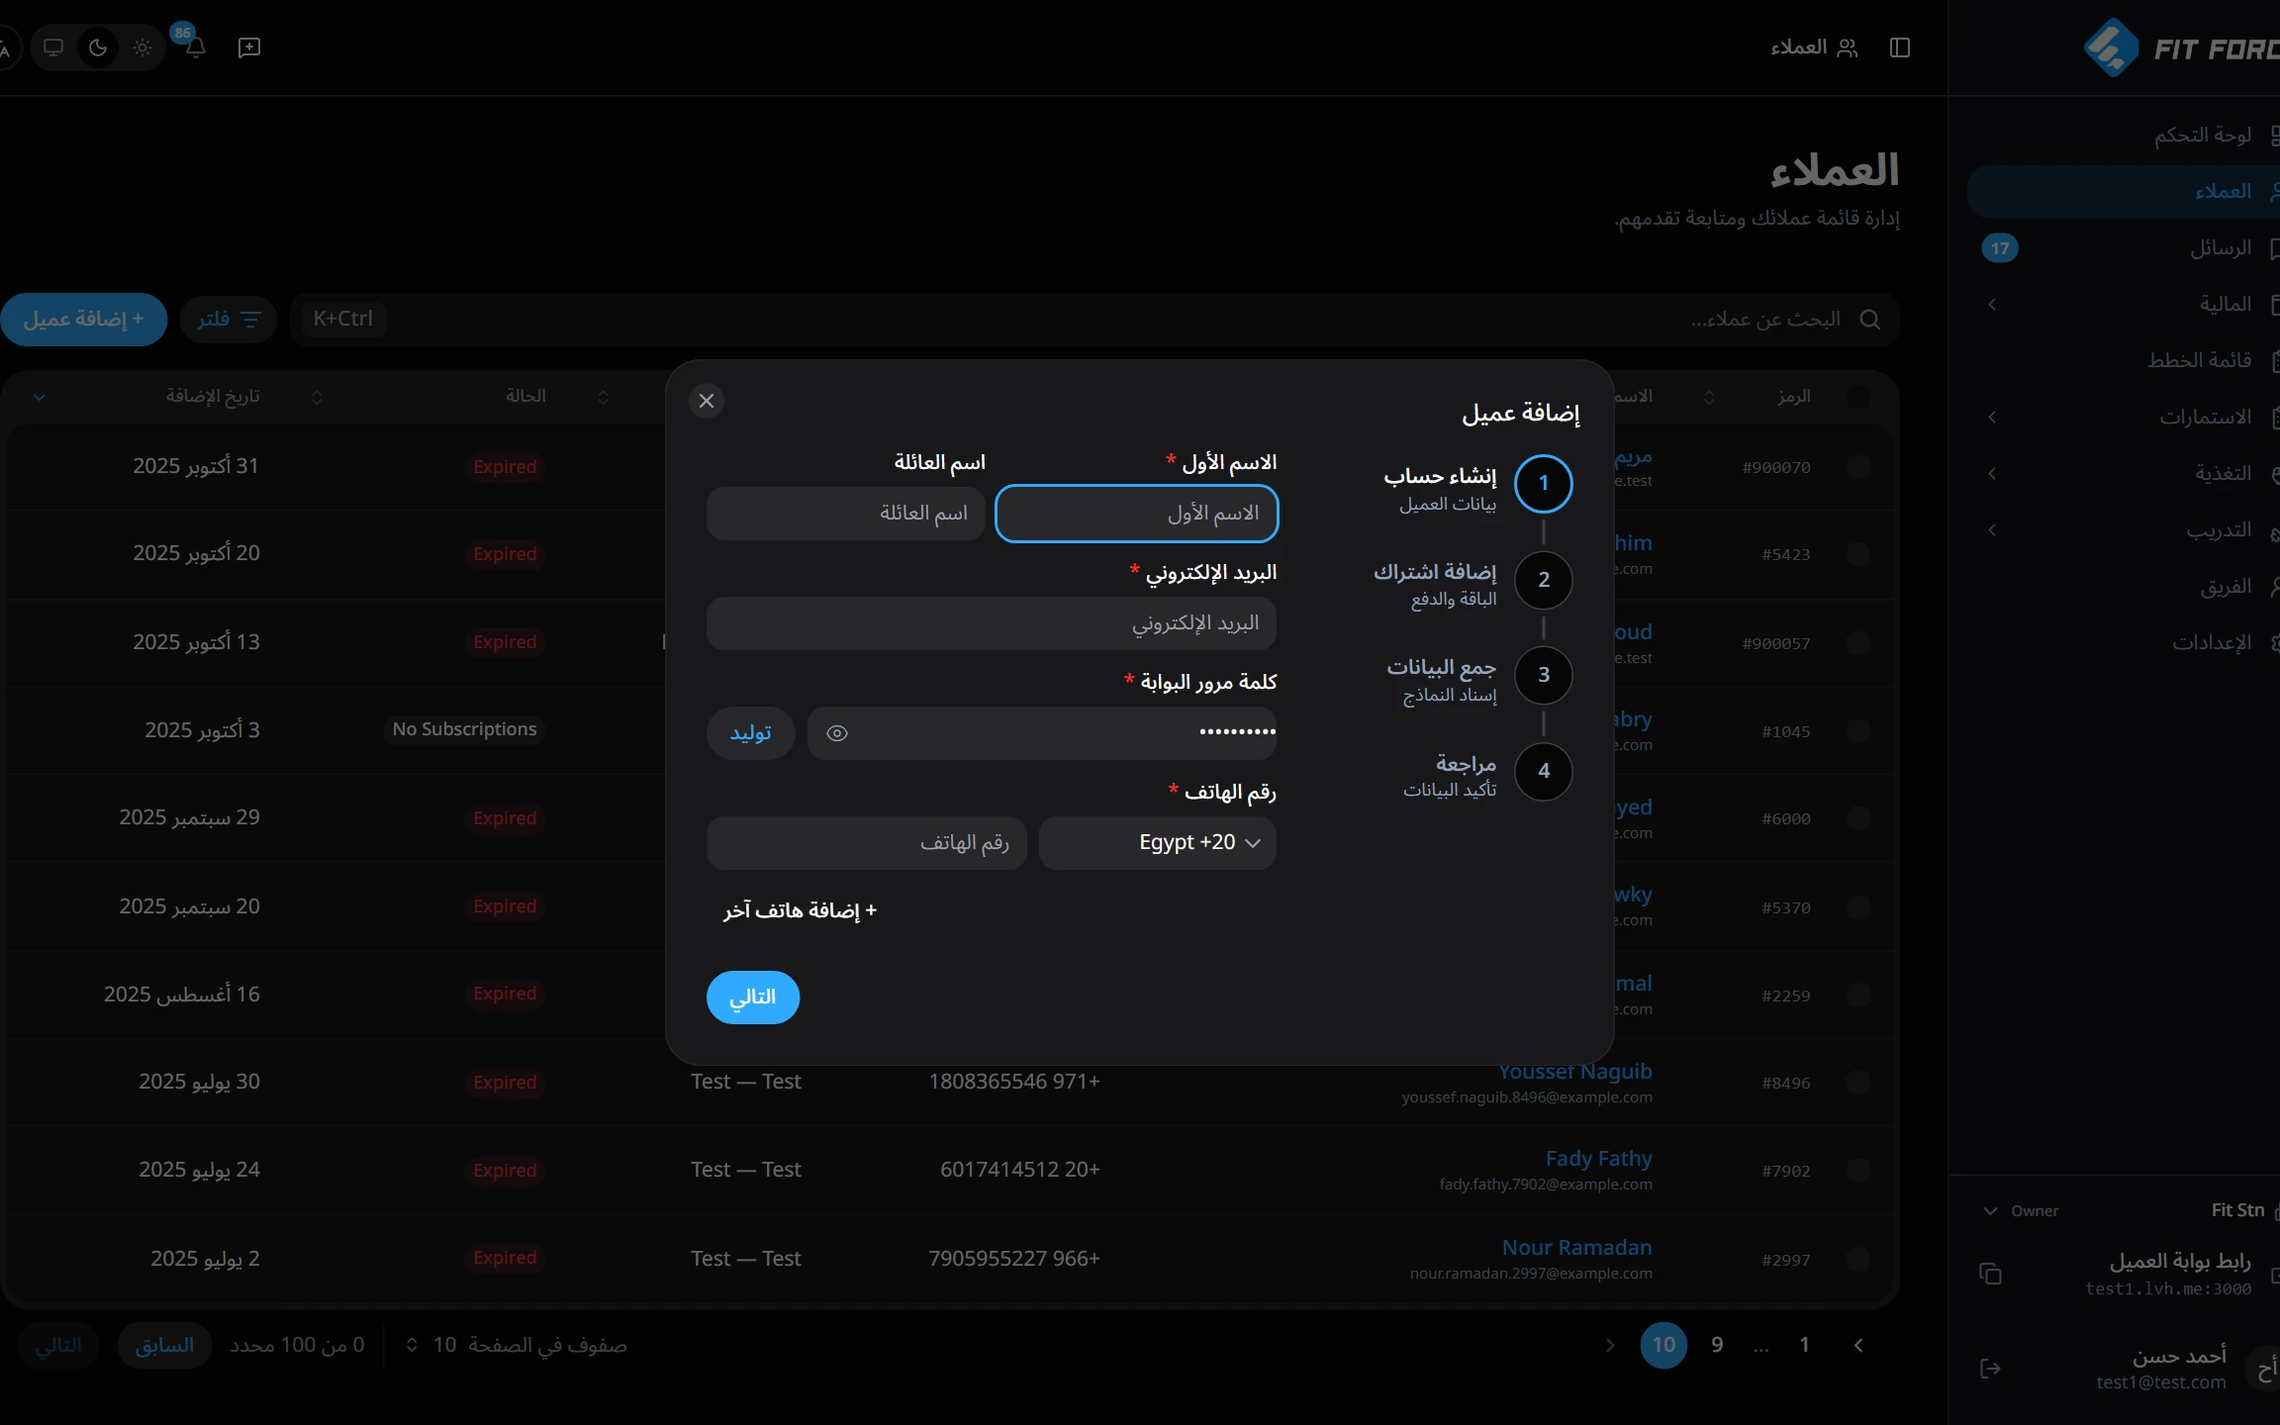
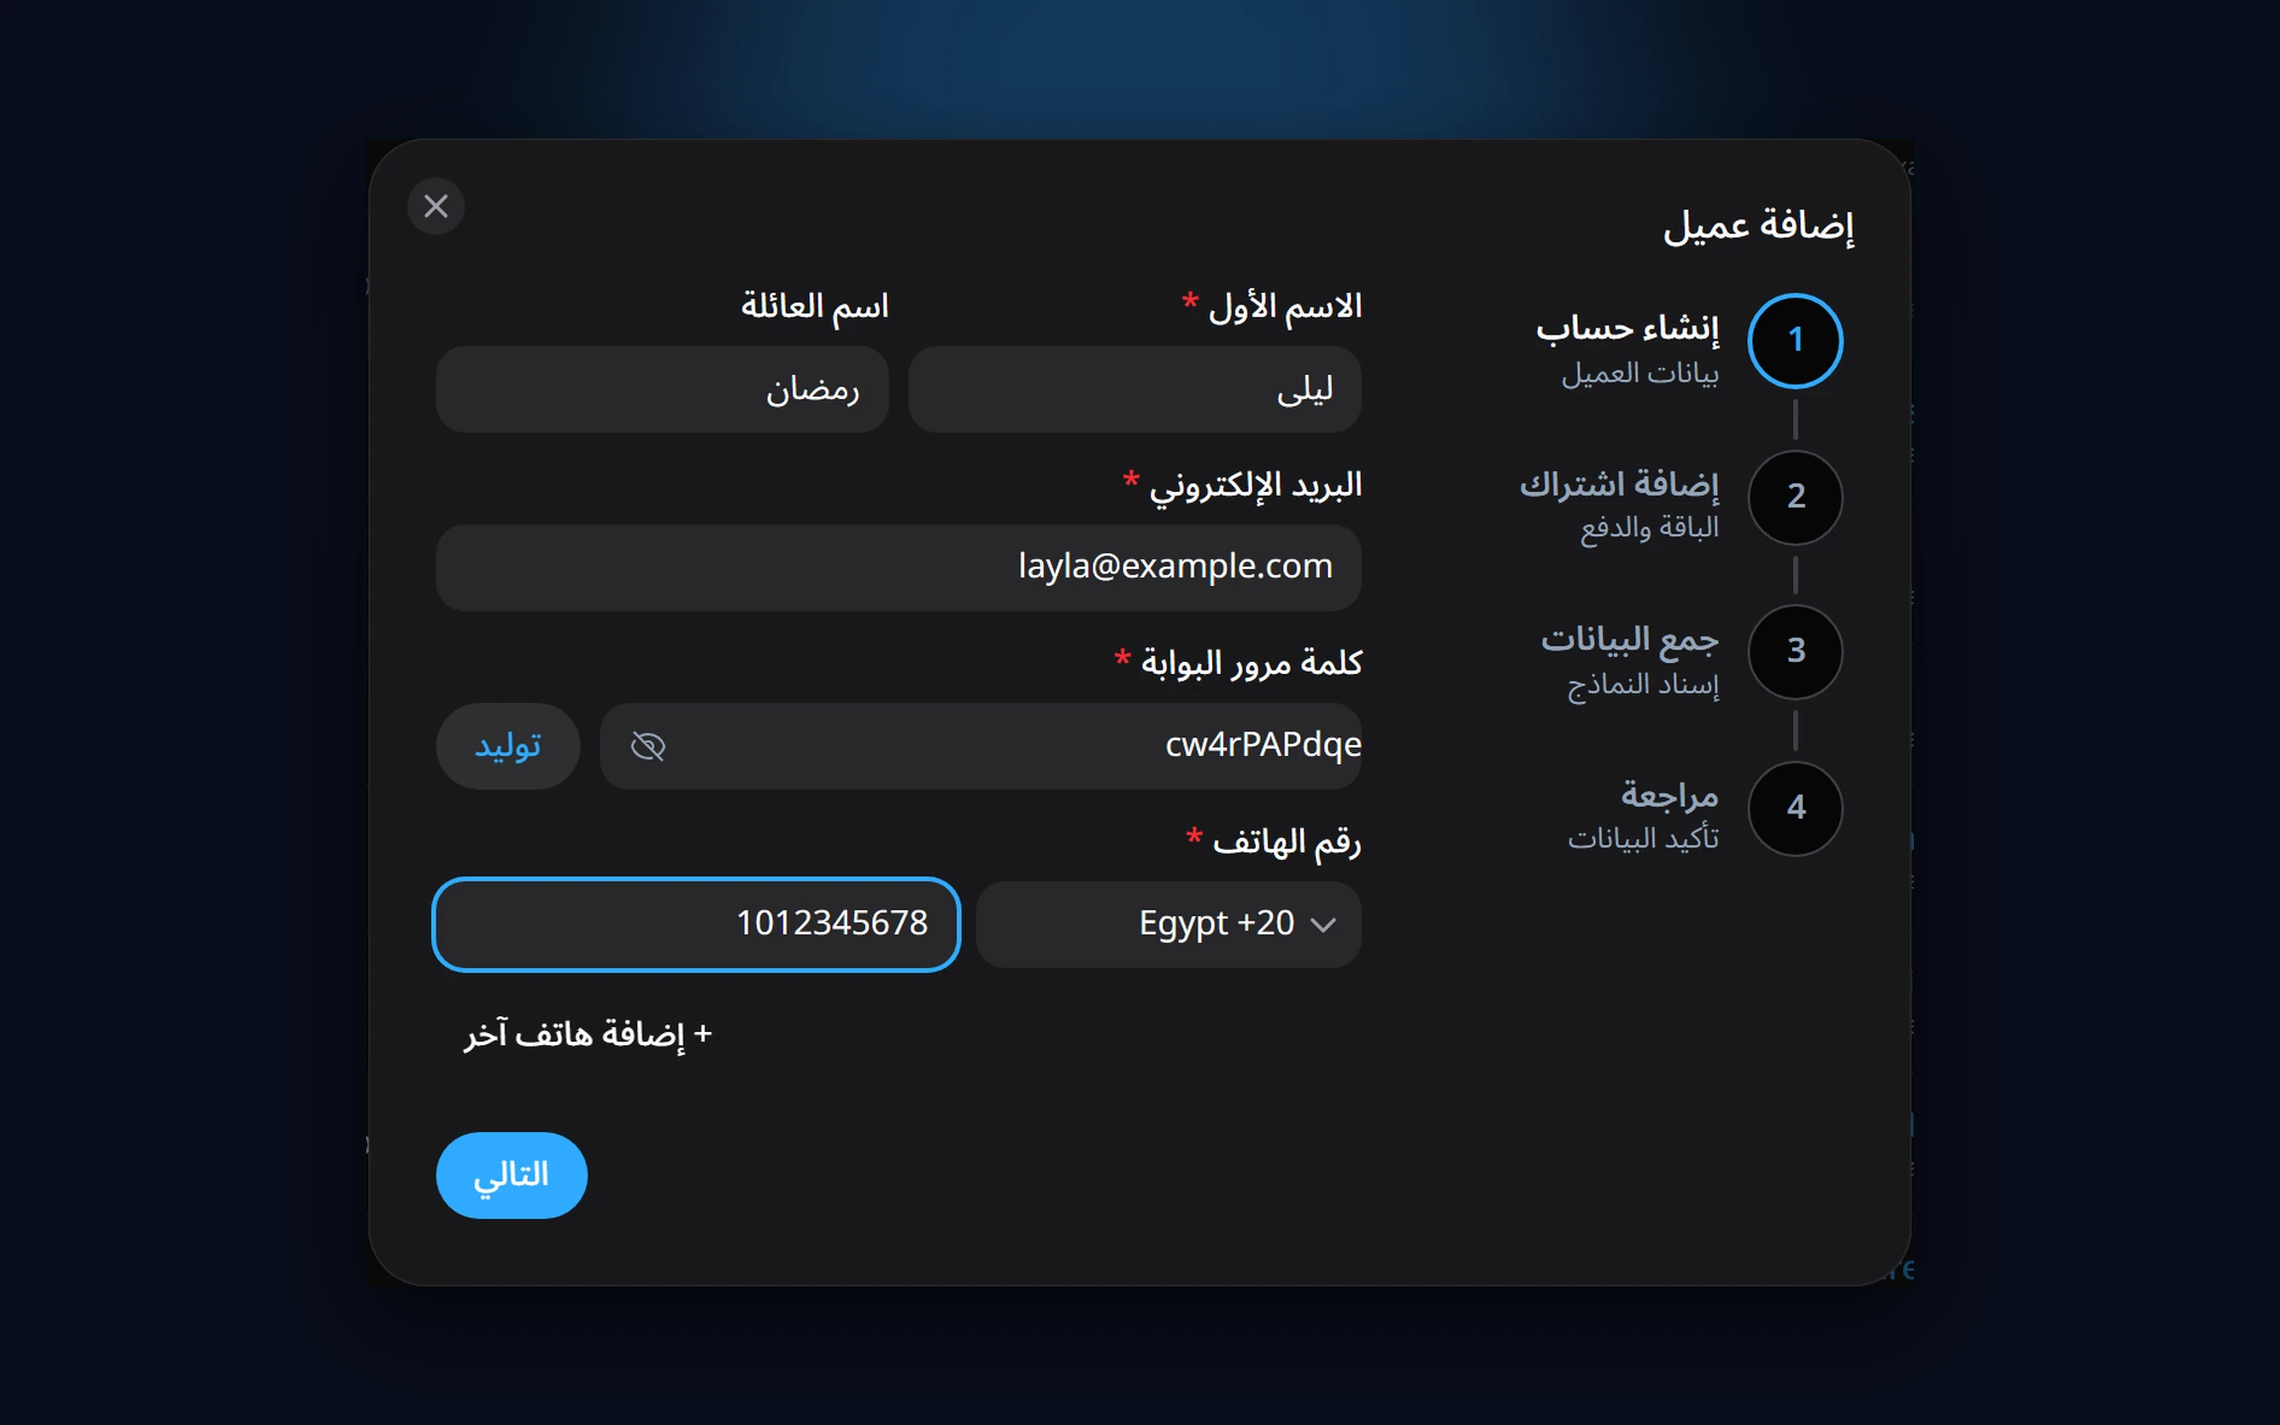
feat: polish the day section with a clean add-client shot, tabs, scope labels and results-first copy

diff --git a/client/app/components/lp/LpDay.js b/client/app/components/lp/LpDay.js
@@ -3,31 +3,32 @@
 import { useEffect, useRef, useState } from "react";
 import Link from "next/link";
 import { useTranslations } from "next-intl";
-import { LANDING_DAY_STEPS, LANDING_SECTIONS, LANDING_SHOTS } from "@/lib/landingConfig";
+import { ChefHat, LineChart, Smartphone, UserPlus, Wallet } from "lucide-react";
+import { LANDING_DAY_SCOPES, LANDING_DAY_STEPS, LANDING_SECTIONS, LANDING_SHOTS } from "@/lib/landingConfig";
 import { LpBrowser, LpPhoneFrame } from "./LpFrames";
 import LpShotImage from "./LpShotImage";
 
 const SPY_LOCK_MS = 1200;
+// Same order as `lp.day.steps`; used by the phone chips.
+const STEP_ICONS = [UserPlus, ChefHat, Smartphone, LineChart, Wallet];
 
-// One large screenshot stage on one side, the five steps on the other. Clicking a step, or
-// scrolling past it, switches the stage; every step uses the same stage size.
-function StepVisual({ shotIds, alt }) {
-    if (shotIds.length === 1 && LANDING_SHOTS[shotIds[0]].kind === "browser") {
-        return (
-            <LpBrowser>
-                <LpShotImage shotId={shotIds[0]} alt={alt} />
-            </LpBrowser>
-        );
-    }
+// One stage for every step: same frame, same shape. Phones sit inside it for the client-app step.
+function StepVisual({ shotIds, alt, scopeLabel }) {
+    const isBrowser = shotIds.length === 1 && LANDING_SHOTS[shotIds[0]].kind === "browser";
     return (
-        <LpBrowser className="lp-stage__panel">
-            <div className="lp-stage__phones">
-                {shotIds.map((id, index) => (
-                    <LpPhoneFrame key={id}>
-                        <LpShotImage shotId={id} alt={index === 0 ? alt : ""} />
-                    </LpPhoneFrame>
-                ))}
-            </div>
+        <LpBrowser className={isBrowser ? "" : "lp-stage__panel"}>
+            <span className="lp-scope">{scopeLabel}</span>
+            {isBrowser ? (
+                <LpShotImage shotId={shotIds[0]} alt={alt} />
+            ) : (
+                <div className="lp-stage__phones">
+                    {shotIds.map((id, index) => (
+                        <LpPhoneFrame key={id}>
+                            <LpShotImage shotId={id} alt={index === 0 ? alt : ""} />
+                        </LpPhoneFrame>
+                    ))}
+                </div>
+            )}
         </LpBrowser>
     );
 }
@@ -36,11 +37,14 @@ export default function LpDay() {
     const t = useTranslations("lp.day");
     const tUi = useTranslations("lp.ui");
     const steps = t.raw("steps");
+    const labels = t.raw("labels");
     const [active, setActive] = useState(0);
     const rowRefs = useRef([]);
+    const tabRefs = useRef([]);
     // A click wins over scroll-spy for a moment, so the scroll it causes can't switch the step back.
     const spyLocked = useRef(false);
     const lockTimer = useRef(null);
+
     const choose = (index) => {
         spyLocked.current = true;
         clearTimeout(lockTimer.current);
@@ -61,54 +65,84 @@ export default function LpDay() {
         return () => { observer.disconnect(); clearTimeout(lockTimer.current); };
     }, []);
 
+    // Arrow keys move between steps, like any tab list.
+    function onKeyDown(event) {
+        const move = { ArrowDown: 1, ArrowUp: -1 }[event.key];
+        if (!move) return;
+        event.preventDefault();
+        const next = (active + move + steps.length) % steps.length;
+        choose(next);
+        tabRefs.current[next]?.focus();
+    }
+
     return (
         <section id={LANDING_SECTIONS.day} className="lp-section" style={{ scrollMarginTop: 90 }}>
             <div className="lp-container lp-above">
                 <div className="lp-head">
-                    <h2 className="lp-h2">{t("title")}</h2>
+                    <h2 className="lp-h2" style={{ fontSize: "clamp(1.75rem, 1.6vw + 1rem, 2.75rem)" }}>{t("title")}</h2>
                     <p className="lp-lead">{t("subtitle")}</p>
                 </div>
 
-                {/* Phones: tap or swipe through numbered chips. */}
+                {/* Phones: tap an icon to switch the step. */}
                 <div className="lp-chips" role="tablist" aria-label={tUi("steps")}>
-                    {steps.map((step, index) => (
-                        <button
-                            key={step.title}
-                            type="button"
-                            role="tab"
-                            aria-selected={active === index}
-                            className={`lp-chip ${active === index ? "is-active" : ""}`}
-                            onClick={() => choose(index)}
-                        >
-                            {String(index + 1).padStart(2, "0")}
-                        </button>
-                    ))}
+                    {steps.map((step, index) => {
+                        const Icon = STEP_ICONS[index];
+                        return (
+                            <button
+                                key={step.title}
+                                type="button"
+                                role="tab"
+                                aria-selected={active === index}
+                                aria-label={step.title}
+                                className={`lp-chip ${active === index ? "is-active" : ""}`}
+                                onClick={() => choose(index)}
+                            >
+                                <Icon size={20} aria-hidden="true" />
+                                <span>{labels[index]}</span>
+                            </button>
+                        );
+                    })}
                 </div>
 
                 <div className="lp-day">
-                    <ol className="lp-day__list">
-                        {steps.map((step, index) => (
-                            <li key={step.title} ref={(node) => { rowRefs.current[index] = node; }} data-step={index}>
-                                <button
-                                    type="button"
-                                    className={`lp-glass lp-stepbtn ${active === index ? "is-active" : ""}`}
-                                    aria-current={active === index ? "step" : undefined}
-                                    onClick={() => choose(index)}
-                                >
-                                    <span className="lp-num lp-grad" aria-hidden="true">{String(index + 1).padStart(2, "0")}</span>
-                                    <span className="lp-stepbtn__copy">
-                                        <strong>{step.title}</strong>
-                                        <span>{step.text}</span>
-                                    </span>
-                                </button>
-                            </li>
-                        ))}
-                    </ol>
+                    <div>
+                        <p className="lp-day__hint">{t("hint")}</p>
+                        <ol className="lp-day__list" role="tablist" aria-orientation="vertical" aria-label={tUi("steps")} onKeyDown={onKeyDown}>
+                            {steps.map((step, index) => (
+                                <li key={step.title} ref={(node) => { rowRefs.current[index] = node; }} data-step={index} role="presentation">
+                                    <button
+                                        type="button"
+                                        role="tab"
+                                        id={`day-tab-${index}`}
+                                        aria-selected={active === index}
+                                        aria-controls={`day-panel-${index}`}
+                                        tabIndex={active === index ? 0 : -1}
+                                        ref={(node) => { tabRefs.current[index] = node; }}
+                                        className={`lp-glass lp-stepbtn ${active === index ? "is-active" : ""}`}
+                                        onClick={() => choose(index)}
+                                    >
+                                        <span className="lp-num lp-grad" aria-hidden="true">{String(index + 1).padStart(2, "0")}</span>
+                                        <span className="lp-stepbtn__copy">
+                                            <strong>{step.title}</strong>
+                                            <span className="lp-stepbtn__text"><span>{step.text}</span></span>
+                                        </span>
+                                    </button>
+                                </li>
+                            ))}
+                        </ol>
+                    </div>
 
                     <div className="lp-stage">
                         {LANDING_DAY_STEPS.map((shotIds, index) => (
-                            <div key={shotIds.join("-")} className={`lp-stage__layer ${active === index ? "is-active" : ""}`} aria-hidden={active !== index}>
-                                <StepVisual shotIds={shotIds} alt={steps[index].alt} />
+                            <div
+                                key={shotIds.join("-")}
+                                id={`day-panel-${index}`}
+                                role="tabpanel"
+                                aria-labelledby={`day-tab-${index}`}
+                                className={`lp-stage__layer ${active === index ? "is-active" : ""}`}
+                                aria-hidden={active !== index}
+                            >
+                                <StepVisual shotIds={shotIds} alt={steps[index].alt} scopeLabel={t(LANDING_DAY_SCOPES[index])} />
                             </div>
                         ))}
                     </div>

diff --git a/client/app/landing.css b/client/app/landing.css
@@ -358,10 +358,8 @@
 
 /* ── A day with FitForce: steps on one side, one stage on the other ── */
 .lp-chips { display: flex; gap: 8px; overflow-x: auto; scroll-snap-type: x mandatory; padding-bottom: 6px; margin-bottom: 16px; }
-.lp-chip {
-  flex: none; scroll-snap-align: start; min-width: 56px; min-height: 44px; padding: 0 14px; border-radius: 14px; cursor: pointer;
-  font-family: "Alexandria", sans-serif; font-weight: 700; color: var(--lp-text-2); background: var(--lp-glass); border: 1px solid var(--lp-glass-border);
-}
+
+.lp-chip { flex: none; scroll-snap-align: start; cursor: pointer; border-radius: 14px; font-family: "Alexandria", sans-serif; font-weight: 700; color: var(--lp-text-2); background: var(--lp-glass); border: 1px solid var(--lp-glass-border); }
 .lp-chip.is-active { background: var(--lp-blue); color: var(--lp-on-blue); border-color: var(--lp-blue); }
 .lp-day { display: grid; gap: 20px; }
 .lp-closing--cta { margin-top: 36px; color: var(--lp-blue); text-decoration: underline; text-underline-offset: 6px; }
@@ -375,10 +373,13 @@
 .lp-stepbtn .lp-num { font-size: 2.3rem; }
 .lp-stepbtn__copy { display: flex; flex-direction: column; gap: 4px; }
 .lp-stepbtn__copy strong { font-family: "Alexandria", sans-serif; font-size: 1.12rem; line-height: 1.5; }
-.lp-stepbtn__copy span { color: var(--lp-text-3); font-size: 0.95rem; line-height: 1.8; display: none; }
+.lp-stepbtn__text { display: grid; grid-template-rows: 0fr; transition: grid-template-rows 0.3s ease; }
+.lp-stepbtn__text > span { overflow: hidden; min-height: 0; color: var(--lp-text-3); font-size: 0.95rem; line-height: 1.8; }
 .lp-stepbtn.is-active { background: rgba(47, 169, 255, 0.1); border-color: rgba(47, 169, 255, 0.55); box-shadow: inset 0 1px 0 rgba(255, 255, 255, 0.14), 0 20px 60px -24px rgba(47, 169, 255, 0.55); }
-.lp-stepbtn.is-active .lp-stepbtn__copy span { display: block; color: var(--lp-text-2); }
-.lp-stepbtn:not(.is-active) { align-items: center; padding-block: 14px; }
+.lp-stepbtn.is-active .lp-stepbtn__text { grid-template-rows: 1fr; }
+.lp-stepbtn.is-active .lp-stepbtn__text > span { color: var(--lp-text-2); }
+.lp-stepbtn { align-items: center; }
+.lp-stepbtn.is-active { align-items: flex-start; }
 .lp-stepbtn:not(.is-active) .lp-num { font-size: 1.7rem; }
 .lp-stage { position: relative; width: 100%; aspect-ratio: 16 / 10; }
 .lp-stage__layer { position: absolute; inset: 0; display: flex; align-items: center; justify-content: center; opacity: 0; pointer-events: none; transition: opacity 0.45s ease; }
@@ -442,3 +443,12 @@
   .lp-stage__phones .lp-phone-frame { border-radius: 26px; padding: 5px; }
   .lp-stage__phones .lp-phone-frame__screen { border-radius: 21px; }
 }
+
+/* Phone step chips: icon plus one word. */
+.lp-chip { display: flex; flex-direction: column; align-items: center; justify-content: center; gap: 2px; min-width: 64px; min-height: 58px; padding: 6px 12px; font-size: 0.8rem; }
+.lp-chip span { font-family: inherit; font-weight: 600; }
+.lp-day__hint { margin: 0 0 10px; color: var(--lp-text-3); font-size: 0.95rem; }
+.lp-scope { position: absolute; z-index: 3; top: 12px; inset-inline-start: 14px; padding: 4px 12px; border-radius: 999px; font-size: 0.85rem; font-weight: 600; color: #fff; background: rgba(8, 13, 26, 0.8); border: 1px solid rgba(47, 169, 255, 0.45); }
+.lp-day__list li:focus-within .lp-stepbtn:focus-visible { outline: 2px solid var(--lp-blue); outline-offset: 2px; }
+@media (min-width: 960px) { .lp-chips { display: none; } }
+@media (prefers-reduced-motion: reduce) { .lp-stepbtn__text { transition: none; } }

diff --git a/client/lib/landingConfig.js b/client/lib/landingConfig.js
@@ -36,7 +36,7 @@ export const LANDING_COACHES = [
 // in the same order as the arrays here. `toolMarker` is the one marker shown in the bento crop
 // (it must stay inside the zoomed crop on every screen size). Arabic screens are mirrored, so x flips unless mirror is false.
 export const LANDING_SHOTS = {
-    addClient: { kind: "browser", file: "b-{l}-add-client", w: 2304, h: 1440, focus: { x: 50, y: 47, zoom: 1.55 } },
+    addClient: { kind: "browser", file: "b-{l}-add-client", w: 2304, h: 1440, focus: { x: 50, y: 50, zoom: 1.15 } },
     nutrition: { kind: "browser", file: "b-{l}-nutrition", w: 2304, h: 1440, focus: { x: 52, y: 45, zoom: 1.3 } },
     foodDiary: { kind: "browser", file: "b-{l}-food-diary", w: 2304, h: 1440, focus: { x: 40, y: 31, zoom: 1.75 } },
     finance: { kind: "browser", file: "b-{l}-finance", w: 1500, h: 940, focus: { x: 50, y: 50, zoom: 1 } },
@@ -51,6 +51,8 @@ export const LANDING_SHOTS = {
 
 // Order matters: matches `lp.day.steps` and `lp.phones.screens` in the messages.
 // Day step 3 is the client's phone, shown as two phones in the same stage.
+// Which app each day step shows, for the small label on the stage.
+export const LANDING_DAY_SCOPES = ["coach", "coach", "client", "coach", "coach"];
 export const LANDING_DAY_STEPS = [["addClient"], ["nutrition"], ["phoneNutrition", "training"], ["foodDiary"], ["finance"]];
 export const LANDING_PHONE_SCREENS = ["phoneNutrition", "shopping", "swap"];
 
